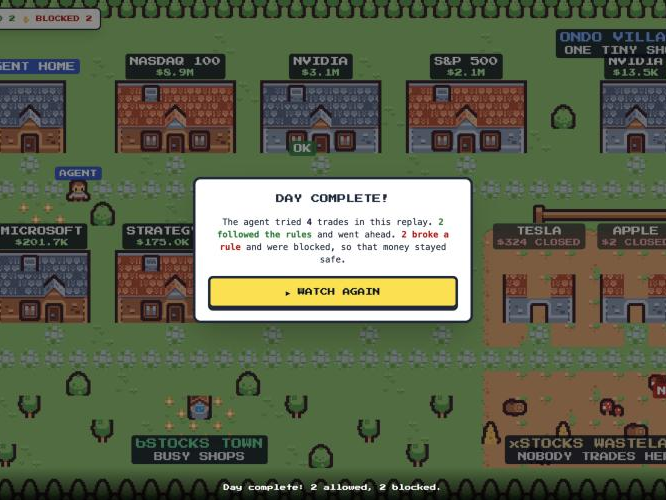
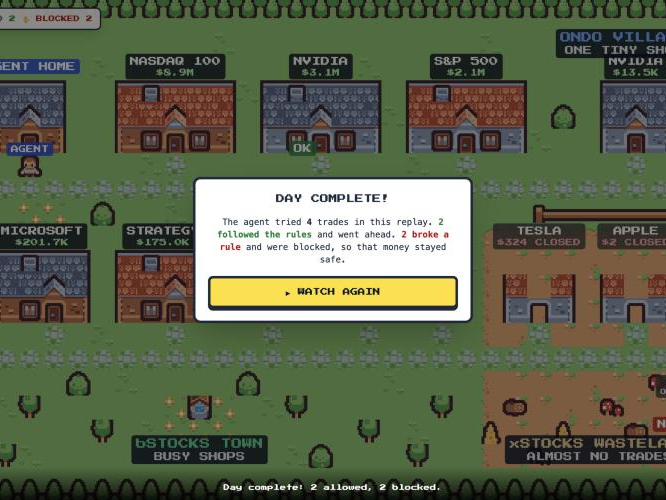
Seventh red-team pass: off-map lot sign, honest map copy, docs and settle wording, pinned status-page ethers
Map: the off-the-map lot no longer says NOT ALLOWED (twelve allowed theme tokens have no shop); its badge no longer covers the sign; the copy says pool reserves as a Sep 20 snapshot; xStocks says almost no trades.
Status page: ethers pinned to 6.17.0; amounts formatted from the decimal string (groupDecimal, tested).
Skill docs: survey window, quote ceiling, DailyNotionalExceeded, settle with the net movement.
verify.ts: documents that the inbound rule assumes the wallet sends its own transactions.
Re-shot both screenshots.

Changed region(s): [[0.0, 0.27, 0.1502, 0.42], [0.7808, 0.9, 1.0, 0.93], [0.961, 0.75, 1.0, 0.87]]

diff --git a/frontend/src/game/scenes/WorldScene.ts b/frontend/src/game/scenes/WorldScene.ts
@@ -330,10 +330,14 @@ export class WorldScene extends Phaser.Scene {
     for (const [c, r] of [[26, 10], [22, 16], [31, 9], [25, 16]]) put(c, r, F.deadPine);
     for (const [c, r] of [[23, 15], [28, 16]]) put(c, r, F.log);
     for (const [c, r] of [[24, 17], [29, 14], [27, 15]]) put(c, r, F.mushrooms);
-    // A shop that isn't in town: where trades on unknown tokens get fought.
+    // Shops that aren't in town: where trades on tokens with no shop get
+    // fought. That covers an impersonator the mandate refuses, but also a real
+    // token the mandate allows that simply has no lot on the map (the theme
+    // mandate lists twelve of them), so the sign says "off the map", not "not
+    // allowed": the battle itself says whether the trade was.
     put(UNKNOWN_SIGN.col, UNKNOWN_SIGN.row, F.sign);
     const s = tileCenter(UNKNOWN_SIGN.col, UNKNOWN_SIGN.row);
-    this.plate(s.x - 10, s.y - 13, MYSTERY_LABEL, { size: 5, bg: 0x7f1d1d, line2: "NOT ALLOWED", line2Color: "#fecaca" }).setDepth(6);
+    this.plate(s.x - 10, s.y - 13, MYSTERY_LABEL, { size: 5, bg: 0x44403c, line2: "OFF THE MAP", line2Color: "#e5e7eb" }).setDepth(6);
   }
 
   private drawBuilding(b: Building) {
@@ -459,7 +463,10 @@ export class WorldScene extends Phaser.Scene {
     const p = tileCenter(this.heroSpot.col, this.heroSpot.row);
     // On the shop wall just left of the door - clear of the name sign above
     // the roof and of the MYSTERY lot's sign to its right.
-    const badge = this.plate(p.x - 12, p.y - 10, won ? "OK" : "NO", { size: 6, bg: won ? 0x15803d : 0xb91c1c }).setDepth(8);
+    // The off-the-map lot has its sign right beside the doorstep, so its badge
+    // goes below the stand instead, where it doesn't cover the sign's text.
+    const offMap = this.heroSpot.col === UNKNOWN_STAND.col && this.heroSpot.row === UNKNOWN_STAND.row;
+    const badge = this.plate(p.x - 12, p.y + (offMap ? 12 : -10), won ? "OK" : "NO", { size: 6, bg: won ? 0x15803d : 0xb91c1c }).setDepth(8);
     this.stamps.set(k, badge);
     this.tweens.add({ targets: badge, scale: { from: 1.8, to: 1 }, duration: 300, ease: "Back.easeOut" });
   }

diff --git a/frontend/src/data/liquidity.ts b/frontend/src/data/liquidity.ts
@@ -5,6 +5,12 @@
  * estimated: these are the same numbers the project's own written research
  * already committed to disk before this map existed.
  */
+/**
+ * When these reserves were read. They are a snapshot, not a live feed, so the
+ * game says so wherever it shows them ("Sep 20").
+ */
+export const LIQUIDITY_AS_OF = "Sep 20";
+
 export type Platform = "bstock" | "ondo" | "xstock";
 
 export interface TerritoryToken {
@@ -35,7 +41,7 @@ export const TERRITORY_TOKENS: TerritoryToken[] = [
   { ticker: "NVDAon", name: "NVIDIA", platform: "ondo", reservesUsd: 13_500, volume24hUsd: 1_300, address: "0xa9ee28c80f960b889dfbd1902055218cba016f75", note: "~200x thinner than NVDAB" },
 
   // xStocks wasteland - friction-log B8, "commercially dead"
-  { ticker: "TSLAx", name: "TESLA", platform: "xstock", reservesUsd: 324, volume24hUsd: 0, address: "0x8ad3c73f833d3f9a523ab01476625f269aeb7cf0", note: "$0.00 24h volume - genuinely deployed, not tradeable" },
+  { ticker: "TSLAx", name: "TESLA", platform: "xstock", reservesUsd: 324, volume24hUsd: 0, address: "0x8ad3c73f833d3f9a523ab01476625f269aeb7cf0", note: "$0.00 24h volume on 2026-09-20 - deployed and barely traded" },
   // AAPLx: verified-facts.md only reports "pools hold under $2" in prose, no
   // per-pool address was recorded - not invented here.
   { ticker: "AAPLx", name: "APPLE", platform: "xstock", reservesUsd: 2, volume24hUsd: 0, note: "pools hold under $2; address not independently verified" },
@@ -44,7 +50,7 @@ export const TERRITORY_TOKENS: TerritoryToken[] = [
 export const PLATFORM_LABEL: Record<Platform, { name: string; blurb: string; color: string }> = {
   bstock: { name: "bSTOCKS TOWN", blurb: "Busy shops", color: "#3ecf8e" },
   ondo: { name: "ONDO VILLAGE", blurb: "One tiny shop", color: "#6ea8fe" },
-  xstock: { name: "xSTOCKS WASTELAND", blurb: "Nobody trades here", color: "#e7c98f" },
+  xstock: { name: "xSTOCKS WASTELAND", blurb: "Almost no trades", color: "#e7c98f" },
 };
 
 /** "$8.9M", "$13.5K", "$324" - short enough for a shop sign. */

diff --git a/scripts/try-to-break-it-demo.ts b/scripts/try-to-break-it-demo.ts
@@ -77,10 +77,10 @@ async function main() {
     await pause(400);
 
     await (await new ethers.Contract(USDT, ERC20, env.agent).approve(PANCAKE_V3_SWAP_ROUTER, a.amountIn)).wait();
-    const latest = (await new ethers.JsonRpcProvider(node.rpcUrl).getBlock("latest"))!.timestamp;
+    const deadlineFromNow = async () => (await new ethers.JsonRpcProvider(node.rpcUrl).getBlock("latest"))!.timestamp + 300;
     const honestSwap = await (
       await new ethers.Contract(PANCAKE_V3_SWAP_ROUTER, ROUTER_ABI, env.agent).exactInputSingle({
-        tokenIn: USDT, tokenOut: NVDAB, fee: FEE, recipient: env.agentAddress, deadline: latest + 300, amountIn: a.amountIn, amountOutMinimum: a.minOut, sqrtPriceLimitX96: 0n,
+        tokenIn: USDT, tokenOut: NVDAB, fee: FEE, recipient: env.agentAddress, deadline: await deadlineFromNow(), amountIn: a.amountIn, amountOutMinimum: a.minOut, sqrtPriceLimitX96: 0n,
       })
     ).wait();
     // Settle with the real ERC-20 Transfer amount, never the quote - the
@@ -104,7 +104,7 @@ async function main() {
     await (await new ethers.Contract(USDT, ERC20, env.agent).approve(PANCAKE_V3_SWAP_ROUTER, a.amountIn)).wait();
     const bypassSwap = await (
       await new ethers.Contract(PANCAKE_V3_SWAP_ROUTER, ROUTER_ABI, env.agent).exactInputSingle({
-        tokenIn: USDT, tokenOut: NVDAB, fee: FEE, recipient: env.agentAddress, deadline: latest + 300, amountIn: a.amountIn, amountOutMinimum: a.minOut, sqrtPriceLimitX96: 0n,
+        tokenIn: USDT, tokenOut: NVDAB, fee: FEE, recipient: env.agentAddress, deadline: await deadlineFromNow(), amountIn: a.amountIn, amountOutMinimum: a.minOut, sqrtPriceLimitX96: 0n,
       })
     ).wait();
     console.log(`😈 bypass swap went through with no commit: ${bypassSwap!.hash}`);

diff --git a/test/status-page-lib.unit.ts b/test/status-page-lib.unit.ts
@@ -1,5 +1,5 @@
 import { expect } from "chai";
-import { describeDecision, resolveFromBlock, guardedVsUnguarded, DEFAULT_LOOKBACK_BLOCKS } from "../status-page/lib.mjs";
+import { describeDecision, resolveFromBlock, guardedVsUnguarded, DEFAULT_LOOKBACK_BLOCKS, groupDecimal } from "../status-page/lib.mjs";
 
 // Pure-function coverage for status-page/lib.mjs, no network, no fork: the
 // live suite (test/status-page.live.ts) already exercises these against
@@ -111,5 +111,19 @@ describe("status-page/lib.mjs default window", function () {
     expect(DEFAULT_LOOKBACK_BLOCKS).to.be.greaterThan(10_000);
     expect(resolveFromBlock(undefined, 1_000_000)).to.equal(1_000_000 - DEFAULT_LOOKBACK_BLOCKS);
     expect(resolveFromBlock(undefined, 10)).to.equal(0);
+  });
+});
+
+describe("status-page/lib.mjs groupDecimal", function () {
+  it("groups the whole part and keeps up to six decimals", function () {
+    expect(groupDecimal("1234567.1234567891")).to.equal("1,234,567.123456");
+    expect(groupDecimal("0.5")).to.equal("0.5");
+    expect(groupDecimal("2.000000")).to.equal("2");
+    expect(groupDecimal("0.0000001")).to.equal("0");
+  });
+  it("doesn't lose digits on a value past 2^53, where Number() would", function () {
+    const big = "340282366920938463463374607431768211455.0";
+    expect(groupDecimal(big)).to.equal("340,282,366,920,938,463,463,374,607,431,768,211,455");
+    expect(Number(big).toLocaleString("en-US")).to.not.equal(groupDecimal(big));
   });
 });

diff --git a/frontend/src/components/GameCanvas.tsx b/frontend/src/components/GameCanvas.tsx
@@ -4,6 +4,7 @@ import { WorldScene } from "../game/scenes/WorldScene";
 import { HERO_FRAME, RULE_CHECKER_FRAME, MONSTER, type QuestStep } from "../game/logic";
 import type { Decision } from "../lib/covenant";
 import { Sprite } from "./Sprite";
+import { LIQUIDITY_AS_OF } from "../data/liquidity";
 
 interface GameCanvasProps {
   decisions: Decision[];
@@ -162,7 +163,7 @@ export function GameCanvas({ decisions, rightInset, onStart }: GameCanvasProps) 
                 <li className="flex items-center gap-3">
                   <Sprite sheet="town" frame={63} />
                   <span>
-                    Each house is a <b>SHOP</b> for one stock. Bigger house = more money traded there.
+                    Each house is a <b>SHOP</b> for one stock. Bigger house = more money in that market (a {LIQUIDITY_AS_OF} snapshot).
                   </span>
                 </li>
                 <li className="flex items-center gap-3">

diff --git a/status-page/index.html b/status-page/index.html
@@ -105,8 +105,8 @@
 </main>
 
 <script type="module">
-import { ethers } from "https://cdn.jsdelivr.net/npm/ethers@6/+esm";
-import { ABI, fetchDecisionEvents, joinDecisions, resolveFromBlock, describeDecision, bossFor, guardedVsUnguarded } from "./lib.mjs";
+import { ethers } from "https://cdn.jsdelivr.net/npm/ethers@6.17.0/+esm";
+import { ABI, fetchDecisionEvents, joinDecisions, resolveFromBlock, describeDecision, bossFor, guardedVsUnguarded, groupDecimal } from "./lib.mjs";
 
 const MAX_DECISIONS = 50;
 
@@ -132,7 +132,7 @@ function fmtAddr(addr) {
 function fmtAmount(wei) {
   // Display-only, assumes 18 decimals (true for USDT and every tokenized
   // stock this project touches - see docs/research/verified-facts.md).
-  return Number(ethers.formatUnits(wei, 18)).toLocaleString(undefined, { maximumFractionDigits: 6 });
+  return groupDecimal(ethers.formatUnits(wei, 18));
 }
 
 function fmtTime(unixSeconds) {

diff --git a/scripts/verify.ts b/scripts/verify.ts
@@ -310,7 +310,11 @@ export async function reconcile(opts: ReconcileOptions) {
       }
       continue;
     }
-    // Inbound-only, unpaid, and sent by someone else: not a trade.
+    // Inbound-only, unpaid, and sent by someone else: not a trade. This leans
+    // on the wallet sending its own transactions (the Day-1 swap's `from` is
+    // the wallet, docs/evidence/day1-gate-swap.json). A stock bought with
+    // native BNB in a transaction some sponsor sent on the wallet's behalf
+    // would look like a gift here and be listed as a notice, not a trade.
     // Quote-token *received* doesn't matter: a stranger can bundle 1 wei of
     // USDT with the dust. What makes it not a trade is that the wallet paid nothing.
     const inboundOnly = [...m.stock.values()].every((d) => d >= 0n) && m.quoteOut === 0n;

diff --git a/skills/covenant-mandate/references/survey.md b/skills/covenant-mandate/references/survey.md
@@ -6,9 +6,9 @@ Reports BSC status for a ticker under all three providers (Ondo, xStock, bStock)
 
 `resolve` deliberately refuses to guess when a ticker is ambiguous across providers. `survey` is the other half of that: instead of picking one, show every candidate so a human (or an agent) can make an informed choice - including a provider that's real, deployed, and essentially dead.
 
-Building this found a real, reproducible data-quality problem in Binance's own RWA Dynamic V2 endpoint: its `tokenInfo.volume24h` field does not reliably reflect real on-chain activity. For real `TSLAx` (xStock), the endpoint reported a large `volume24h` figure while an independent `eth_getLogs` check against real BSC state found **zero** real `Transfer` events in the prior several hours. The exact same reported figure also showed up, unchanged, on a completely unrelated token (`TSLAon`) - see `docs/partner-feedback/friction-log.md` B17 for the full write-up.
+Building this found a real, reproducible data-quality problem in Binance's own RWA Dynamic V2 endpoint: its `tokenInfo.volume24h` field does not reliably reflect real on-chain activity. For real `TSLAx` (xStock), the endpoint reported a large `volume24h` figure while an independent `eth_getLogs` check against real BSC state found **zero** real `Transfer` events over the window it checked at the time (a short one, about 3,000 blocks). Re-checked on 2026-09-29 over a wider window (10,000 blocks, about 75 minutes) it finds 4, against 185 for the same stock's bStock: nearly idle, not literally dead. The exact same reported figure also showed up, unchanged, on a completely unrelated token (`TSLAon`) - see `docs/partner-feedback/friction-log.md` B17 for the full write-up.
 
-Because of that, `survey` does not classify a listing as tradeable based on Binance's reported figure. It independently counts real `Transfer` events for the token over a recent block window (tried across several public RPCs, since free-tier `eth_getLogs` is itself flaky - see friction-log.md B10) and classifies off that count instead. Binance's reported number is still included in the output, labeled `binanceReported`, for reference - just not trusted for the `status` field.
+Because of that, `survey` does not classify a listing as tradeable based on Binance's reported figure. It independently counts real `Transfer` events for the token over a recent block window (tried across several public RPCs, since free-tier `eth_getLogs` is itself flaky - see friction-log.md B10) and classifies off that count instead. The window is as far back as the RPC will serve, up to 15,000 blocks in 5,000-block ranges, newest first; free endpoints refuse older ranges, so in practice it is about 10,000 blocks. `onChainVerified.blocksScanned` says how many were really covered. BSC produces a block about every 0.45 seconds, so that is roughly 75 minutes: a quiet but live token can show few transfers, so read the count and the window together. Binance's reported number is still included in the output, labeled `binanceReported`, for reference - just not trusted for the `status` field.
 
 ## Syntax
 
@@ -30,7 +30,7 @@ $ node scripts/cli.mjs survey '{"ticker":"TSLA"}'
 }
 ```
 
-Note `xstock` above: `binanceReported.volume24h` looks like real activity, but `onChainVerified.transferCount` - the number actually trusted for `status` - is 0. That contradiction is the point of this command.
+Note `xstock` above: `binanceReported.volume24h` looks like real activity, but `onChainVerified.transferCount` - the number actually trusted for `status` - is 0. That contradiction is the point of this command. (This example is from the original short window; today the same call reports a handful of transfers for it, still a sliver of the bStock's. Each `onChainVerified` also carries `blocksScanned`.)
 
 ## `status` values
 

diff --git a/skills/covenant-mandate/references/check.md b/skills/covenant-mandate/references/check.md
@@ -26,7 +26,7 @@ Units: every amount is an 18-decimal integer string (BSC USDT and every bStock h
 
 ## Example
 
-Real output from a local fork of BSC mainnet, 2026-09-25: a $0.50 NVDAB buy at the live oracle price, minimum 0.5% below the quote.
+Real output from a local fork of BSC mainnet, 2026-09-25: a $0.50 NVDAB buy at the live oracle price, minimum 0.5% below the quote. It is abridged: the command now also returns `token.maxClosedMarketDriftBps`, `mandate.maxDailyNotionalUsd`, `mandate.notionalUsedToday`, and `oracle.sessionOpen` and `oracle.lastCloseUsd`, which this early capture predates.
 
 ```bash
 $ node scripts/cli.mjs check '{"rpcUrl":"http://127.0.0.1:8996","covenantAddress":"0x...","side":"buy","tokenAddress":"0x02fca66c1d1afb4e2a7884261eb00f63598a7436","amountIn":"500000000000000000","quotedOut":"...","minOut":"..."}'
@@ -63,8 +63,8 @@ These mirror `Covenant.sol`'s `DenialReason`. Tell the user the reason in plain 
 | `OracleHalted` | The market or the asset is halted or closed. | Stop. Tell the user the market status. |
 | `NotionalExceeded` | The trade is bigger than the per-trade cap (sells are valued at the oracle price). | Offer a smaller trade. |
 | `DailyLimitExceeded` | The day's trade count is used up. | It resets at the next UTC midnight. Say when. |
-| `SlippageTooLoose` | `minOut` is too far below the quote or the oracle price, or the quote is zero. | Re-quote and set `minOut` within `token.maxSlippageBps`. |
+| `SlippageTooLoose` | `minOut` is too far below the quote or the oracle price, the quote is zero, or the quote itself sits more than `token.maxSlippageBps` above the oracle price (a quote that good doesn't line up with the market, and without this bound it could be used to stretch the per-trade cap). | Re-quote and set `minOut` within `token.maxSlippageBps`. If the quote is far from the oracle either way, the oracle or the quote is stale: don't trade on it. |
 | `PositionLimit` | After this buy the wallet's real holding would exceed `token.maxPositionUsd`. | Offer a smaller buy, or stop. |
 | `ClosedMarketDrift` | The NYSE's regular session is closed (`oracle.sessionOpen` is false) and this buy is priced more than `token.maxClosedMarketDriftBps` above the last close (`oracle.lastCloseUsd`), or this sell that far below it. | Tell the user the market is closed and the token is trading at a premium (or discount) to its last close. Wait for the open, or stop. |
-| `DailyNotionalExceeded` | Red-team fix H7: today's cumulative notional (across every settled and cancelled decision, `mandate.notionalUsedToday`) plus this trade would exceed `mandate.maxDailyNotionalUsd`. Independent of `maxNotionalPerTradeUsd` and `maxTradesPerDay` - this bounds total daily exposure, not just per-trade size or trade count. 0 means the cap is off for this deployment. | Offer a smaller trade, or wait for the next UTC day. |
+| `DailyNotionalExceeded` | Red-team fix H7: today's cumulative notional (across every approved decision, whether settled, cancelled or still open, `mandate.notionalUsedToday`) plus this trade would exceed `mandate.maxDailyNotionalUsd`. Independent of `maxNotionalPerTradeUsd` and `maxTradesPerDay` - this bounds total daily exposure, not just per-trade size or trade count. 0 means the cap is off for this deployment. | Offer a smaller trade, or wait for the next UTC day. |
 | `InvalidAmount` | Red-team fix H15: `amountIn` is zero, or `amountIn`, `quotedOut` or `minOut` is above `MAX_AMOUNT` (2^128 - 1), where the policy math could overflow. | A bug in the caller's amount handling - check units (wei, 18 decimals). Don't retry the same numbers. |

diff --git a/README.md b/README.md
@@ -215,7 +215,7 @@ Four more suites need no fork and no network at all - fast, pure-function covera
 - `test/skill-cli.unit.ts` (14): the Wallet Skill CLI's own input validation. `resolve` refuses ambiguous chains, the calldata builders refuse a negative amount, a `2^256` amount, a JS number that already lost precision, and a ticker where an address belongs, `compile-mandate` refuses two themes or a bound over 100%, and a stalled response body times out.
 - `test/erc8004-update.unit.ts` (3): the identity-update script's document builder, which adds the deployed contract and the agent's own id without duplicating on a re-run.
 - `test/oracle-guards.unit.ts` (7): the price-versus-candle sanity check and the multi-token oracle spec (`theme:<key>` or a comma list), no network.
-- `test/status-page-lib.unit.ts` (10): the sell-side wording in `describeDecision`/`guardedVsUnguarded` (the live suite only ever commits buy-side decisions), and `resolveFromBlock`'s input validation (NaN, negative, non-integer).
+- `test/status-page-lib.unit.ts` (12): the sell-side wording in `describeDecision`/`guardedVsUnguarded` (the live suite only ever commits buy-side decisions), and `resolveFromBlock`'s input validation (NaN, negative, non-integer).
 
 ### What needs a secret, and what needs an archive RPC
 
@@ -377,6 +377,18 @@ Each one was reproduced with a throwaway test first, then fixed and covered by a
 | The UI said "today's trades" for a multi-day, capped list; the card's tier depended on that cap | The list is the whole scanned range, newest 50 | Wording fixed; the track record covers every decision; the card names its contract |
 | The `SlippageTooLoose` explanation was wrong for the new quote ceiling | Written before the ceiling existed | Covers both cases |
 | The ERC-8004 identity named no contract | Registered before the deploy | `scripts/update-erc8004.ts`, dry-run tested against the live registry (about 316k gas) |
+
+### A seventh pass
+
+| Bug | Cause | Fix |
+|---|---|---|
+| Allowed trades were fought at a sign reading "NOT ALLOWED" | Twelve of the theme mandate's tokens have no shop on the map, and every token without one used the impersonator lot's hard-coded sign | The sign says "OFF THE MAP"; the battle says whether the trade was allowed |
+| The map showed a 20 Sep snapshot as current, and described it wrongly | Shop size comes from pool reserves, but the copy said "money traded there"; the xStocks banner said nobody trades | The copy says "money in that market (a Sep 20 snapshot)"; the banner says "Almost no trades" |
+| The "NO" badge covered the off-map lot's sign, so it read "NO ALLOWED" | The badge sits beside the doorstep, and that lot's sign sits there too | The badge goes below the stand on that lot |
+| The reference docs described the old `survey` window and omitted the quote ceiling | Written before those changes | `survey.md` and `check.md` updated |
+| The settle instructions and `verify.ts` used different amounts | The skill said "the Transfer to the wallet"; `verify.ts` uses the wallet's net movement across the transaction | The skill says net movement |
+| The status page pulled a floating `ethers@6` from a CDN | An unpinned version can change under a judge | Pinned to the installed version |
+| The status page's amounts went through `Number` | Precision loss on large values (display only) | Formatted from the decimal string |
 
 ### The one bug only found by running it in a browser
 

diff --git a/skills/covenant-mandate/SKILL.md b/skills/covenant-mandate/SKILL.md
@@ -47,7 +47,7 @@ Covenant ([contracts/Covenant.sol](../../contracts/Covenant.sol)) is an on-chain
 3. **Check.** `check` with side, amounts, and a `minOut` inside the token's slippage bound. If `decision.allowed` is false, **stop** and tell the user the reason verbatim. See [references/check.md](references/check.md).
 4. **Commit.** `build-commit-calldata`, then `baw contract-call preview --binanceChainId 56 --from <wallet> --to <covenant> --inputData <calldata> --json`. Show the user the preview's `risks`, get confirmation, then `baw contract-call execute --requestId <id> --json`. Read the `DecisionCommitted` event from the receipt. If it says `allowed: false` (state can change between check and commit), stop.
 5. **Swap.** `baw market-order swap` with the same amount and token pair. It returns only an `orderId`. Poll `baw market-order list --orderId <id> --json` until `status` is `FINISHED` or `FAILED`; only then do you have a `txHash`. If it failed, go to step 7.
-6. **Settle.** Read the swap's receipt and take the ERC-20 `Transfer` amount **to the wallet** as `amountOut`. Don't use `toTokenActualQty`: for bStocks it's in share units, 0.078% off the real token amount for NVDAB (friction-log C17). Get the execution mode from `classify-execution-mode` with the receipt's `to` address - it's `aggregator` when `to` is Binance's router, `unknown` otherwise, and never a guessed `rfq`; see [references/loop.md](references/loop.md). `build-settle-calldata` with the decision id, the swap `txHash`, `amountOut` and the execution mode, then preview and execute as in step 4.
+6. **Settle.** Read the swap's receipt and take the wallet's **net movement** of the token it received as `amountOut`: the sum of the ERC-20 `Transfer`s to the wallet minus the sum from it, in that transaction. (`verify.ts` compares against the same net figure, so a route that pays out in several transfers, or refunds part of the input, still matches.) Don't use `toTokenActualQty`: for bStocks it's in share units, 0.078% off the real token amount for NVDAB (friction-log C17). Get the execution mode from `classify-execution-mode` with the receipt's `to` address - it's `aggregator` when `to` is Binance's router, `unknown` otherwise, and never a guessed `rfq`; see [references/loop.md](references/loop.md). `build-settle-calldata` with the decision id, the swap `txHash`, `amountOut` and the execution mode, then preview and execute as in step 4.
 7. **Cancel** instead of settling if you decide not to trade, or the swap failed: `build-cancel-calldata`, preview, execute. A cancelled decision still counts toward the day.
 
 Details on each `baw` step, with the raw responses observed on mainnet, are in [references/loop.md](references/loop.md).
